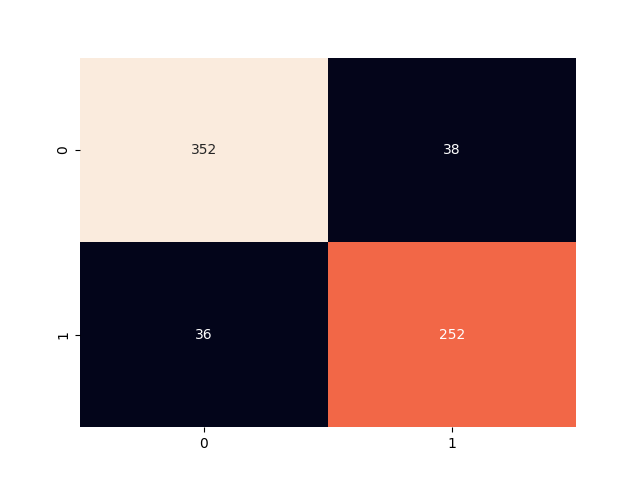
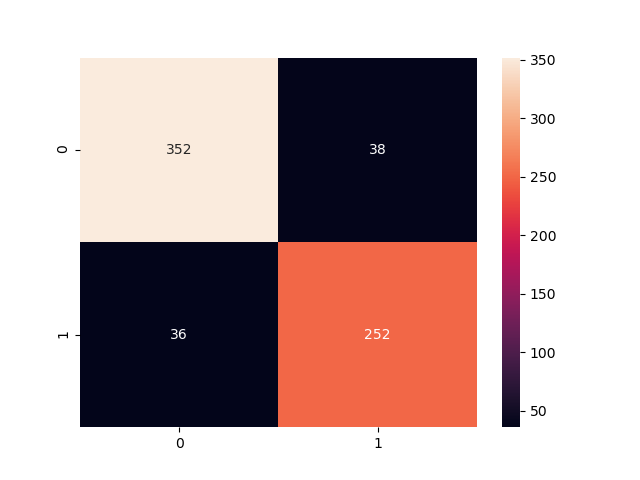
Added back in scale

diff --git a/models/neural_net.py b/models/neural_net.py
@@ -205,7 +205,7 @@ def create_report_confusion_matrix(predicted_labels, actual_labels):
     # Create confusion matrix visualizatiuon
     confusion_matrix_results = confusion_matrix(actual_labels, predicted_labels)
     plt.figure()
-    sns.heatmap(confusion_matrix_results, annot=True, cbar=False, fmt="g")
+    sns.heatmap(confusion_matrix_results, annot = True, fmt = "g")
     plt.savefig(f"graphs/confusion_matrix_neural_network.png")
     
 if __name__ == '__main__':
